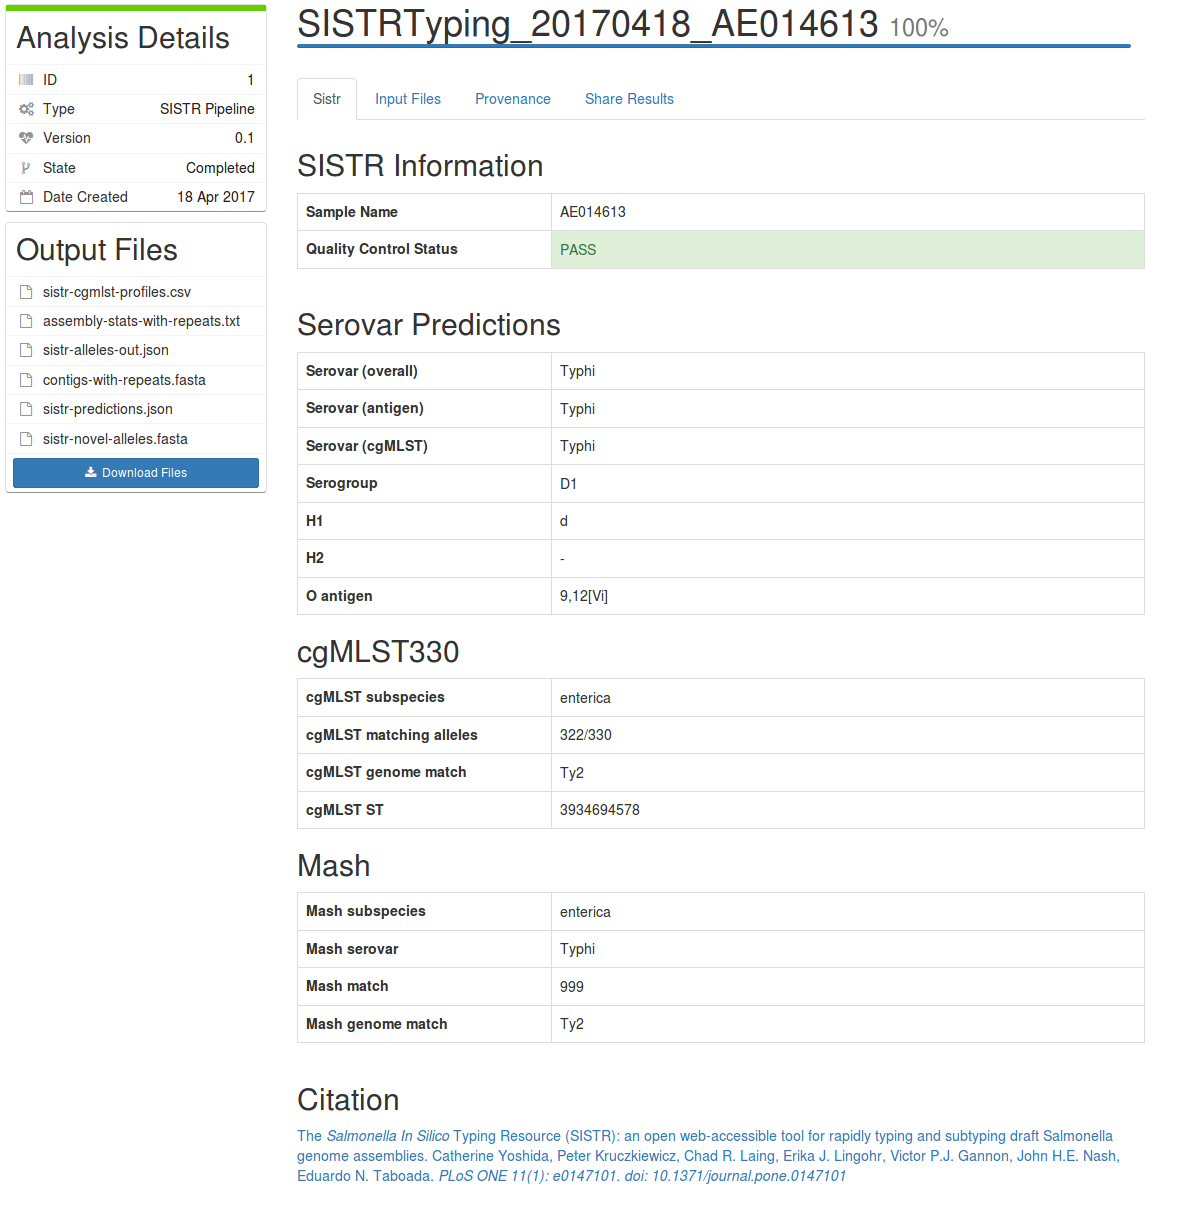
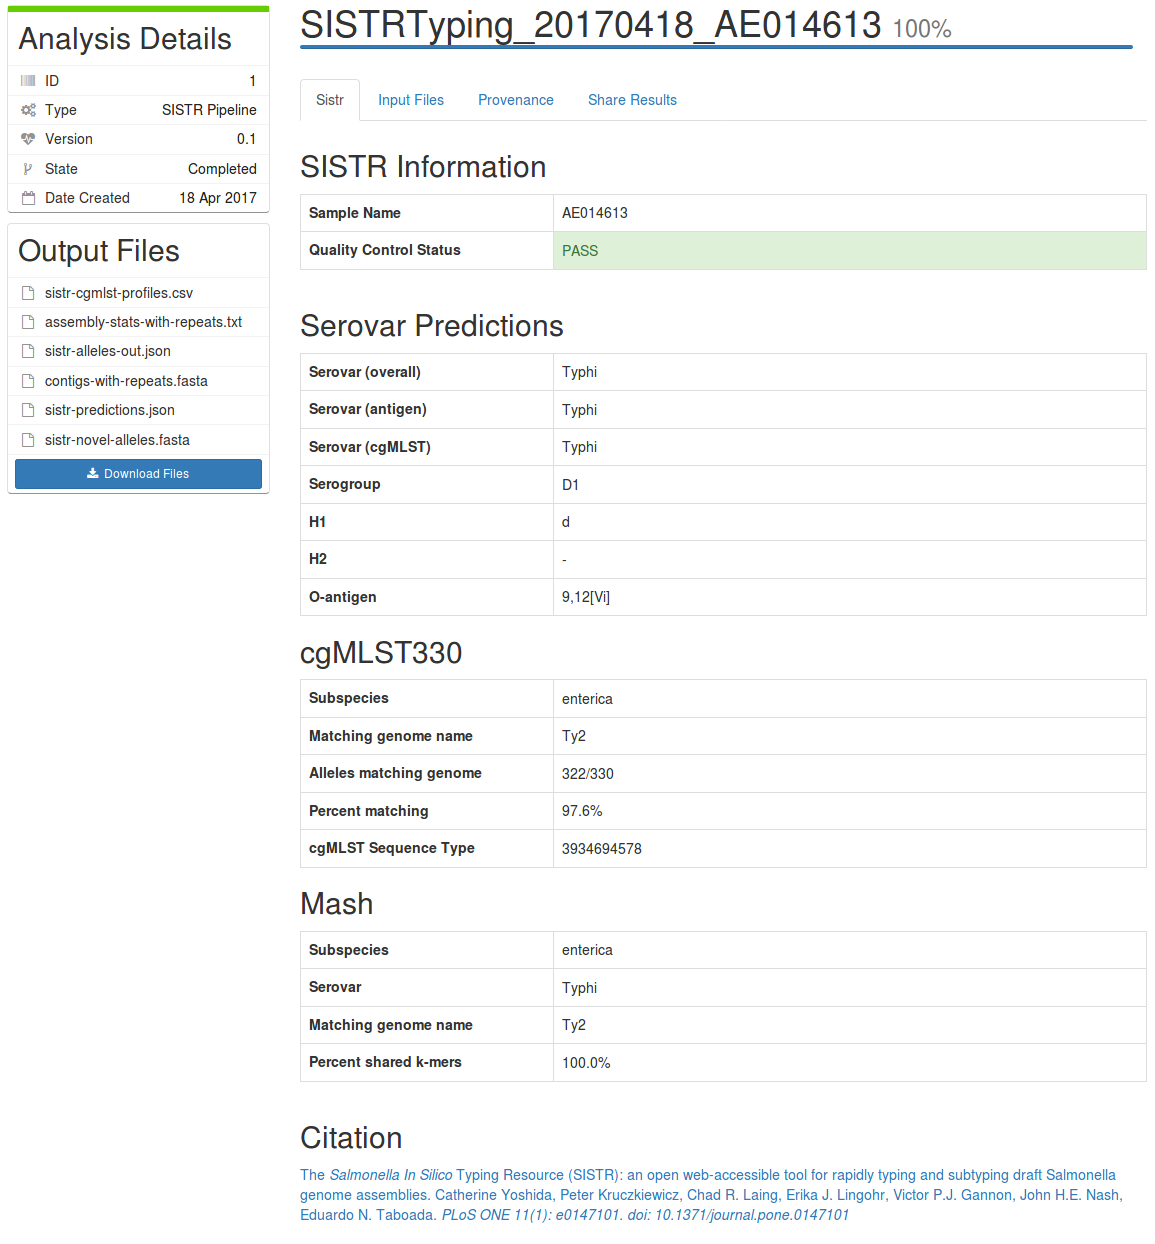
Updated screenshots/re-named fields for sistr results

diff --git a/src/main/webapp/resources/js/pages/analysis/analysis.js b/src/main/webapp/resources/js/pages/analysis/analysis.js
@@ -156,7 +156,7 @@
         sample_information['qc_messages'] = result['qc_messages'].split("|");
         sample_information['qc_pass'] = (result['qc_status'] == 'PASS');
 
-        var serotype_predictions_order = ['Serovar (overall)', 'Serovar (antigen)', 'Serovar (cgMLST)', 'Serogroup', 'H1', 'H2', 'O antigen'];
+        var serotype_predictions_order = ['Serovar (overall)', 'Serovar (antigen)', 'Serovar (cgMLST)', 'Serogroup', 'H1', 'H2', 'O-antigen'];
         var serotype_predictions = {};
         serotype_predictions['Serovar (overall)'] = result['serovar'];
         serotype_predictions['Serovar (antigen)'] = result['serovar_antigen'];
@@ -164,7 +164,7 @@
         serotype_predictions['Serogroup'] = result['serogroup'];
         serotype_predictions['H1'] = result['h1'];
         serotype_predictions['H2'] = result['h2'];
-        serotype_predictions['O antigen'] = result['o_antigen'];
+        serotype_predictions['O-antigen'] = result['o_antigen'];
   
         var cgMLST_predictions = {};
         var cgMLST_predictions_order = ['Subspecies', 'Matching genome name', 'Alleles matching genome', 'Percent matching', 'cgMLST Sequence Type'];
@@ -175,11 +175,11 @@
         cgMLST_predictions['cgMLST Sequence Type'] = result['cgmlst_ST'];
   
         var mash_predictions = {};
-        var mash_predictions_order = ['Subspecies', 'Serovar', 'Matching genome name', 'Percent matching'];
+        var mash_predictions_order = ['Subspecies', 'Serovar', 'Matching genome name', 'Percent shared k-mers'];
         mash_predictions['Subspecies'] = result['mash_subspecies'];
         mash_predictions['Serovar'] = result['mash_serovar'];
         mash_predictions['Matching genome name'] = result['mash_genome'];
-        mash_predictions['Percent matching'] = parseFloat((1 - result['mash_distance'])*100).toFixed(1)+"%";
+        mash_predictions['Percent shared k-mers'] = parseFloat((1 - result['mash_distance'])*100).toFixed(1)+"%";
   
         vm.sample_information = sample_information;
         vm.serotype_predictions = serotype_predictions;

diff --git a/doc/user/user/sistr/index.md b/doc/user/user/sistr/index.md
@@ -85,28 +85,29 @@ The *in silico* serovar predictions generated from SISTR.
 * **Serovar (overall)**: The overall serovar prediction from both the antigen and cgMLST methods employed by SISTR.
 * **Serovar (antigen)**: The serovar prediction generated by looking for the presence of specific antigen genes.
 * **Serovar (cgMLST)**: The serovar prediction generated by comparing the cgMLST type of this genome to the SISTR database.
-* **Serogroup**: The serogroup.
+* **Serogroup**: The serogroup, identified based on the detected alleles of the *wzx* and *wzy* genes.
 * **H1**: The H1 antigen prediction based off of the detected *fliC* allele. If absent, a `-` is reported.
 * **H2**: The H2 antigen based of off the detected *fljB* allele. If absent, a `-` is reported.
-* **O antigen**: The O-antigen prediction (inferred from the overall serovar prediction).
+* **O-antigen**: The O-antigen prediction (inferred from the overall serovar prediction).
 
 #### 3. cgMLST330
 
 The results of additional predictions made using the SISTR cgMLST330 schema.
 
-* **cgMLST subspecies**: The subspecies identified by comparing the genome to the cgMLST database in SISTR.
-* **cgMLST matching alleles**: The number of non-missing, non-partial/truncated alleles (out of 330) that match some genome in the SISTR database.
-* **cgMLST genome match**: The name of the closest matching genome in the SISTR database.
-* **cgMLST ST**: A SISTR Sequence Type number associated with the particular cgMLST profile. A sequence type will only be assigned when the full complement of 330 cgMLST genes are found.
+* **Subspecies**: The subspecies identified by comparing the genome to the cgMLST database in SISTR.
+* **Matching genome name**: The name of the closest matching genome in the SISTR database.
+* **Alleles matching genome**: The number of loci with alleles that perfectly match the closest genome in the SISTR database (out of 330).
+* **Percent matching**: The percent of loci with alleles perfectly matching the closest genome (e.g., _100% * Alleles matching genome/330_).
+* **cgMLST Sequence Type**: A SISTR Sequence Type number associated with the particular cgMLST profile. A sequence type will only be assigned when the full complement of 330 cgMLST genes are found (whether a perfect match or an imperfect but non-truncated match).
 
 #### 4. Mash
 
-The results of predictions made through comparisons using the software [Mash][].
+The results of predictions made through comparisons using the software [Mash][]. Generally, cgMLST results are preferred over Mash.
 
-* **Mash subspecies**: The subspecies identified by comparing the genome to the SISTR database.
-* **Mash serovar**: The serovar identified using Mash.
-* **Mash genome match**: The name of the closest matching genome in the SISTR database identified using Mash.
-* **Mash match distance** The Mash distance from the matching genome.
+* **Subspecies**: The subspecies identified by comparing the genome to the SISTR database.
+* **Serovar**: The serovar identified using Mash.
+* **Matching genome name**: The name of the closest matching genome in the SISTR database identified using Mash.
+* **Percent shared k-mers**: The (approximate) percent of shared *k*-mers to the closest genome detected with Mash (_100% * [1 - mash distance]_).
 
 ### Output Files
 
